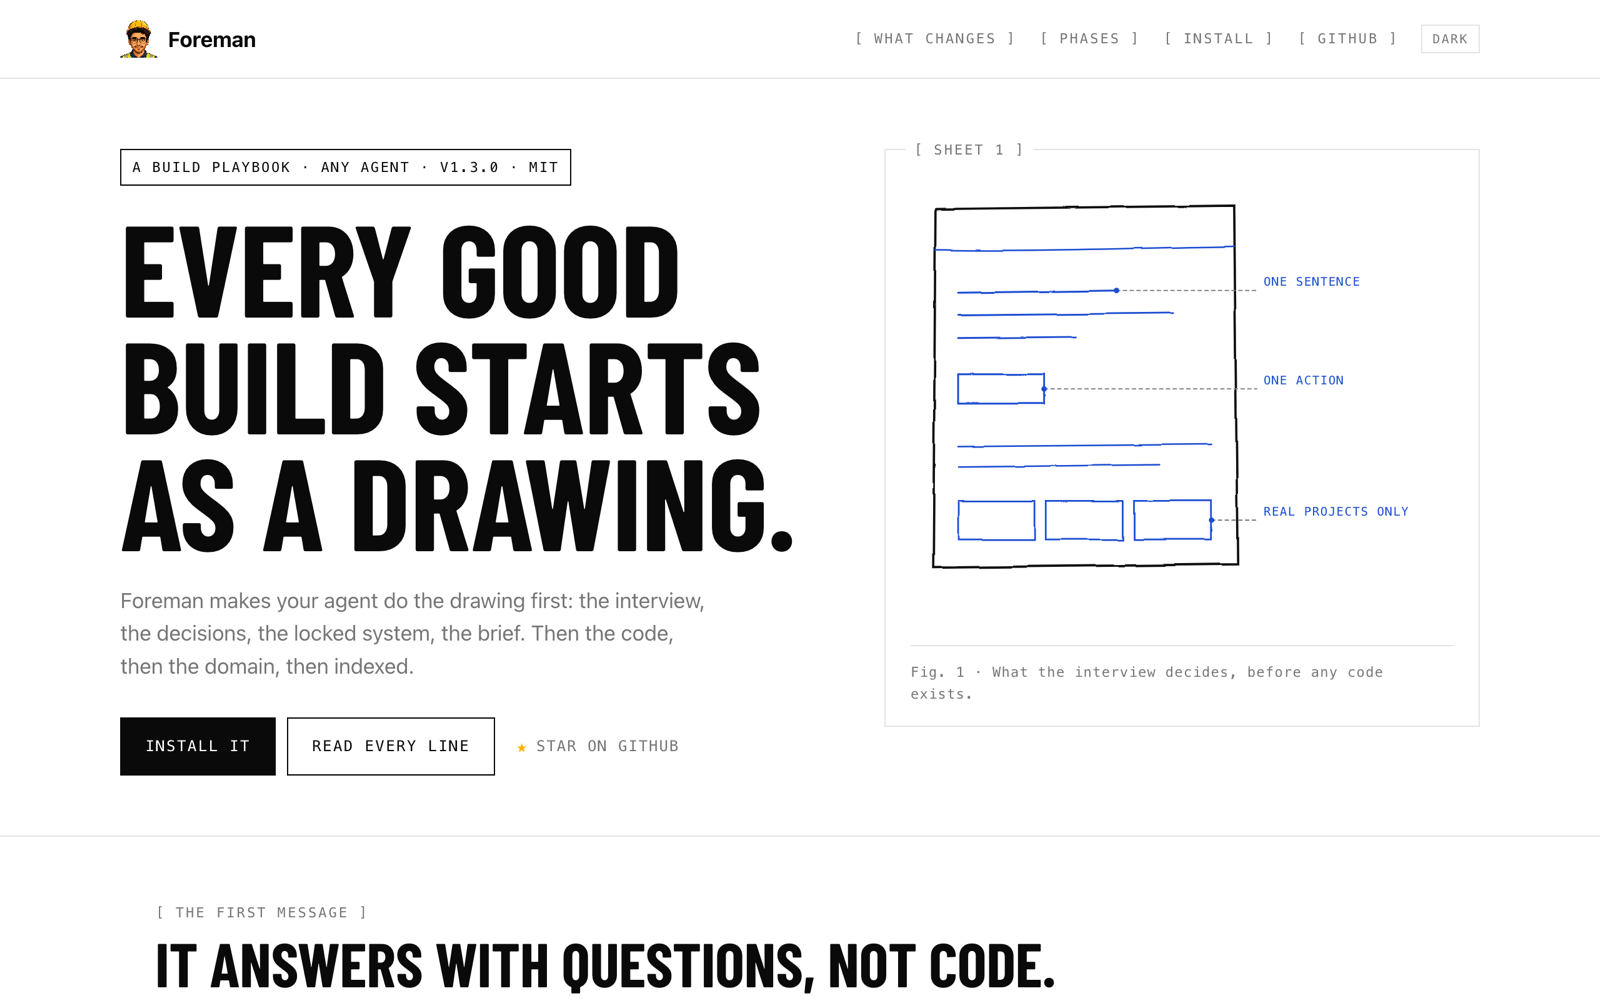
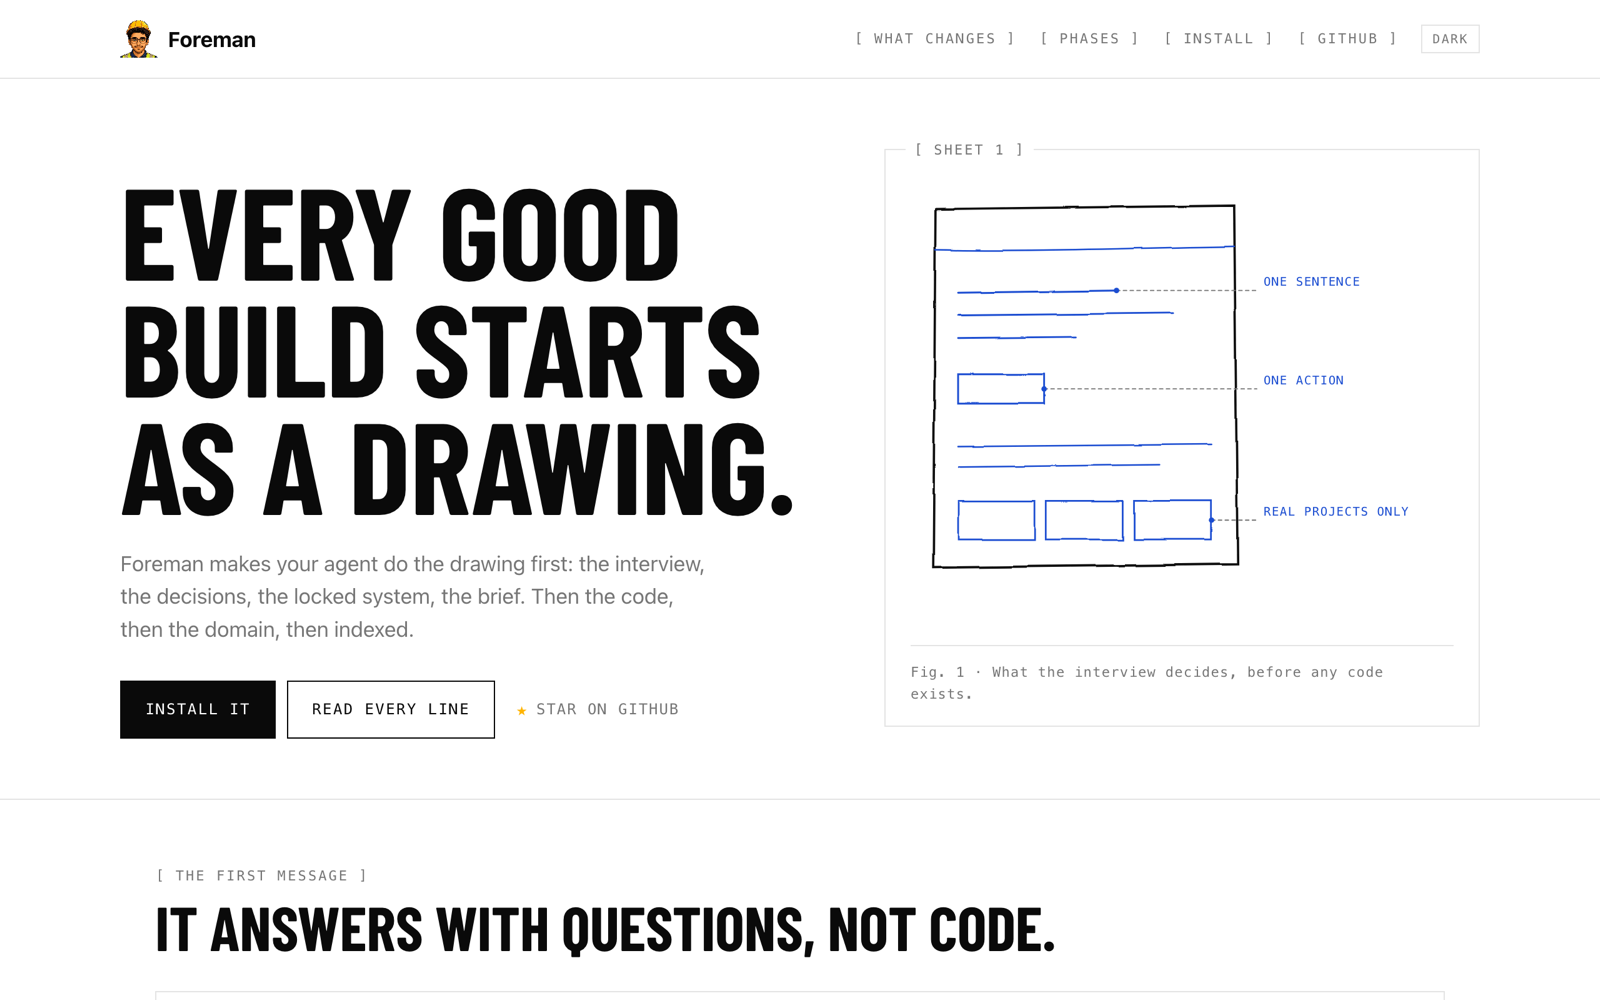
Move to foreman.turkialshuaibi.com, fix the broken 404 links, drop MIT from the chrome
The custom domain serves at the root, so every /Foreman/ absolute path in
404.html pointed at nothing: the icon, the apple-touch icon, the preloaded
font, and the Back to Foreman button. That button was the visible symptom.
All of them are root relative now.

Repointed canonical, og:url, og:image, twitter:image, the JSON-LD url, the
sitemap entry, the robots.txt sitemap line, and llms.txt at the new domain.
Search would otherwise have kept crediting github.io.

Removed MIT from the chrome: the hero box label is gone entirely, the footer
stamp and rule keep the sheet number and version without the licence, and
the 404 rule matches. The licence still lives in LICENSE, the README, and
the JSON-LD license field, which is where a machine looks for it.

Skill: added the rule for prose that justifies its own decisions to the
reader. The README had a textbook case, a sentence explaining why Claude
Code was listed first, inventing an objection nobody raised. Cut it, and
wrote the pattern and the delete test into content-interview.md so the
agent stops producing it.

Changed region(s): [[0.0625, 0.155, 0.5, 0.775], [0.0938, 0.868, 0.6562, 0.992], [0.3438, 0.682, 0.375, 0.713]]

diff --git a/docs/index.html b/docs/index.html
@@ -6,7 +6,7 @@
 
 <title>Foreman · A build playbook for shipping websites with agents</title>
 <meta name="description" content="Foreman turns your coding agent into the foreman of a website build. It interviews you, forces the design and scope decisions, locks a visual system, writes the brief, then verifies, ships, and indexes the site.">
-<link rel="canonical" href="https://turki-sh.github.io/Foreman/">
+<link rel="canonical" href="https://foreman.turkialshuaibi.com/">
 
 <meta name="color-scheme" content="light">
 <meta name="theme-color" content="#FFFFFF">
@@ -17,8 +17,8 @@
 <meta property="og:site_name" content="Foreman">
 <meta property="og:title" content="Foreman · A build playbook for shipping websites with agents">
 <meta property="og:description" content="Every good build starts as a drawing. Foreman makes your agent do the drawing first: the interview, the decisions, the locked system, the brief.">
-<meta property="og:url" content="https://turki-sh.github.io/Foreman/">
-<meta property="og:image" content="https://turki-sh.github.io/Foreman/og.png">
+<meta property="og:url" content="https://foreman.turkialshuaibi.com/">
+<meta property="og:image" content="https://foreman.turkialshuaibi.com/og.png">
 <meta property="og:image:width" content="1200">
 <meta property="og:image:height" content="630">
 <meta property="og:image:alt" content="Foreman, a build playbook for shipping real websites with coding agents.">
@@ -26,7 +26,7 @@
 <meta name="twitter:card" content="summary_large_image">
 <meta name="twitter:title" content="Foreman · A build playbook for shipping websites with agents">
 <meta name="twitter:description" content="Every good build starts as a drawing. Foreman makes your agent do the drawing first.">
-<meta name="twitter:image" content="https://turki-sh.github.io/Foreman/og.png">
+<meta name="twitter:image" content="https://foreman.turkialshuaibi.com/og.png">
 
 <link rel="preload" href="fonts/barlow-condensed-700.woff2" as="font" type="font/woff2" crossorigin>
 
@@ -48,7 +48,7 @@
   "name": "Foreman",
   "applicationCategory": "DeveloperApplication",
   "operatingSystem": "Any",
-  "url": "https://turki-sh.github.io/Foreman/",
+  "url": "https://foreman.turkialshuaibi.com/",
   "codeRepository": "https://github.com/Turki-Sh/Foreman",
   "license": "https://opensource.org/licenses/MIT",
   "softwareVersion": "1.3.0",
@@ -455,7 +455,6 @@
   <div class="wrap hero">
     <div class="cols">
       <div>
-        <span class="boxlbl">A build playbook · any agent · v1.3.0 · MIT</span>
         <h1>Every good build starts as a drawing.</h1>
         <p class="sub">
           Foreman makes your agent do the drawing first: the interview, the decisions,
@@ -697,7 +696,7 @@ cp -r Foreman/plugins/foreman/skills/foreman ~/.agents/skills/</pre>
     <div class="sheetfoot">
       <div class="foothead">
         <div>
-          <span class="stamp">Blueprint no. 1 · v1.3.0 · MIT</span>
+          <span class="stamp">Blueprint no. 1 · v1.3.0</span>
           <p>
             Built by <a href="https://turkialshuaibi.com/">Turki Alshuaibi</a>, AI engineer.
             Everything in it came from shipping, and from watching capable engineers get stuck
@@ -726,7 +725,7 @@ cp -r Foreman/plugins/foreman/skills/foreman ~/.agents/skills/</pre>
       </div>
 
       <div class="footrule">
-        <span>T. Alshuaibi · MIT</span>
+        <span>T. Alshuaibi</span>
         <span>Every good build starts as a drawing</span>
       </div>
     </div>

diff --git a/docs/404.html b/docs/404.html
@@ -7,13 +7,13 @@
 <meta name="robots" content="noindex">
 <meta name="color-scheme" content="light">
 <meta name="theme-color" content="#FFFFFF">
-<link rel="icon" href="/Foreman/icon-32.png" sizes="32x32" type="image/png">
-<link rel="apple-touch-icon" href="/Foreman/icon-180.png">
-<link rel="preload" href="/Foreman/fonts/barlow-condensed-700.woff2" as="font" type="font/woff2" crossorigin>
+<link rel="icon" href="/icon-32.png" sizes="32x32" type="image/png">
+<link rel="apple-touch-icon" href="/icon-180.png">
+<link rel="preload" href="/fonts/barlow-condensed-700.woff2" as="font" type="font/woff2" crossorigin>
 <style>
   @font-face {
     font-family: "Barlow Condensed";
-    src: url("/Foreman/fonts/barlow-condensed-700.woff2") format("woff2");
+    src: url("/fonts/barlow-condensed-700.woff2") format("woff2");
     font-weight: 700; font-style: normal; font-display: swap;
   }
   :root[data-theme="dark"] {
@@ -144,10 +144,10 @@
   <h1>That sheet isn't in the set.</h1>
   <p>The link may be old, or the address may have a typo in it. Everything else is still where it was.</p>
   <div class="actions">
-    <a class="btn" href="/Foreman/">Back to Foreman</a>
+    <a class="btn" href="/">Back to Foreman</a>
     <a class="btn o" href="https://github.com/Turki-Sh/Foreman">The repository</a>
   </div>
-  <p class="rule">Foreman · Blueprint no. 1 · T. Alshuaibi · MIT</p>
+  <p class="rule">Foreman · Blueprint no. 1 · T. Alshuaibi</p>
 </main>
 </body>
 </html>

diff --git a/plugins/foreman/skills/foreman/references/content-interview.md b/plugins/foreman/skills/foreman/references/content-interview.md
@@ -41,6 +41,22 @@ If the project is under NDA or unshippable, say what class of problem it was and
 
 Two or three sentences. Pick first person or third person and hold it across the whole site. Cut every clause that a hundred other people in their field could also write. Where they came from matters only if it explains where they are going.
 
+## Never justify the page to the reader
+
+The strongest tell of machine-written copy, after the accented word, is prose that defends its own decisions. It explains why a list is ordered the way it is, why a default was picked, what a section is not claiming, what the author does not mean. The reader did not ask, did not notice, and now suspects there was something to hide.
+
+> Claude Code is listed first only because it is the one that takes a single command, not because the playbook is built for it.
+
+Nobody wondered. The sentence invents an objection, argues with it, and leaves the reader thinking about install-order politics instead of installing.
+
+Cut every clause of this shape: "only because", "not because", "this is not to say", "it is worth noting that", "that said", "to be clear", "the reason for this is". Cut the pre-emptive apology and the parenthetical that softens the sentence before it.
+
+**If an ordering needs defending, the ordering is wrong.** Change the order rather than annotating it.
+
+**The delete test.** Remove the sentence and read the paragraph again. If nothing is lost, it was justification. This is true of roughly every sentence that explains a choice the reader can already see.
+
+Confidence reads as authority. Explanation reads as doubt.
+
 ## Rules you enforce
 
 - No claim without evidence on the page or one click away.

diff --git a/README.md b/README.md
@@ -14,10 +14,10 @@ Not tied to any one agent: it is a folder of markdown, so it runs on Claude Code
 [![License](https://img.shields.io/badge/license-MIT-3DA639?style=flat&logo=opensourceinitiative&logoColor=white)](LICENSE)
 [![Author](https://img.shields.io/badge/by-Turki%20Alshuaibi-1B4DD1?style=flat)](https://turkialshuaibi.com/)
 
-**[turki-sh.github.io/Foreman](https://turki-sh.github.io/Foreman/)**
+**[foreman.turkialshuaibi.com](https://foreman.turkialshuaibi.com/)**
 
 <p align="center">
-  <a href="https://turki-sh.github.io/Foreman/">
+  <a href="https://foreman.turkialshuaibi.com/">
     <img src="docs/screenshot.png" alt="The Foreman site: a technical sheet on white paper, with a hand-drawn wireframe annotated with the decisions the interview forces." width="820">
   </a>
 </p>
@@ -32,9 +32,9 @@ You do not read Foreman. Your agent does.
 
 ## Install
 
-Foreman is one folder of markdown. There is nothing to compile and nothing to run, so it installs anywhere an agent can read files. Claude Code is listed first only because it is the one that takes a single command, not because the playbook is built for it.
+Foreman is one folder of markdown. Nothing compiles, nothing runs, so it installs anywhere an agent reads files.
 
-**Claude Code.** Type both lines, in this order. The marketplace is named `alshuaibi`, so the install id is `foreman@alshuaibi`.
+**Claude Code.** Both lines, in this order.
 
 ```
 /plugin marketplace add Turki-Sh/Foreman

diff --git a/plugins/foreman/skills/foreman/SKILL.md b/plugins/foreman/skills/foreman/SKILL.md
@@ -108,6 +108,7 @@ Watch for these throughout, not just at the end:
 
 - Delegating decisions instead of delegating typing. Produces default slop. You cause this one yourself the moment you present a finished visual system instead of variants they chose from.
 - Accenting one word of a headline in the brand colour. The single most common tell that a machine set the type. See `references/design-direction.md`.
+- Copy that justifies its own decisions to the reader: "listed first only because", "this is not to say", "it is worth noting". You will write these by reflex. Delete them. See `references/content-interview.md`.
 - No non-goals. Produces a carousel nobody asked for.
 - Big-bang prompting. Produces output they cannot verify.
 - Trusting the desktop render. Produces a site that breaks on the device most visitors use.
